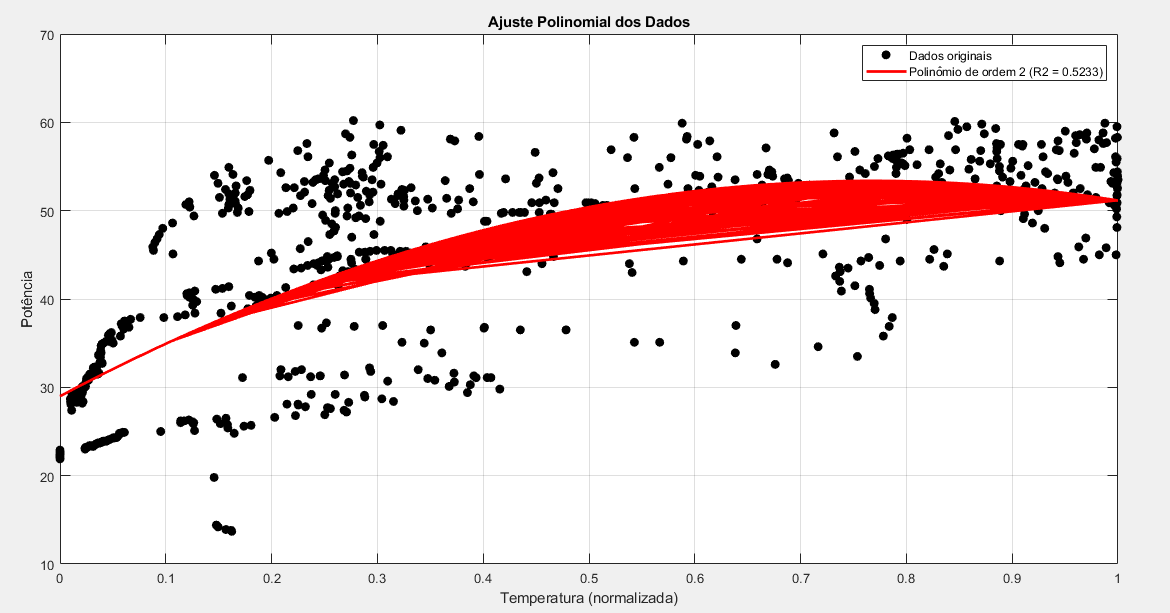
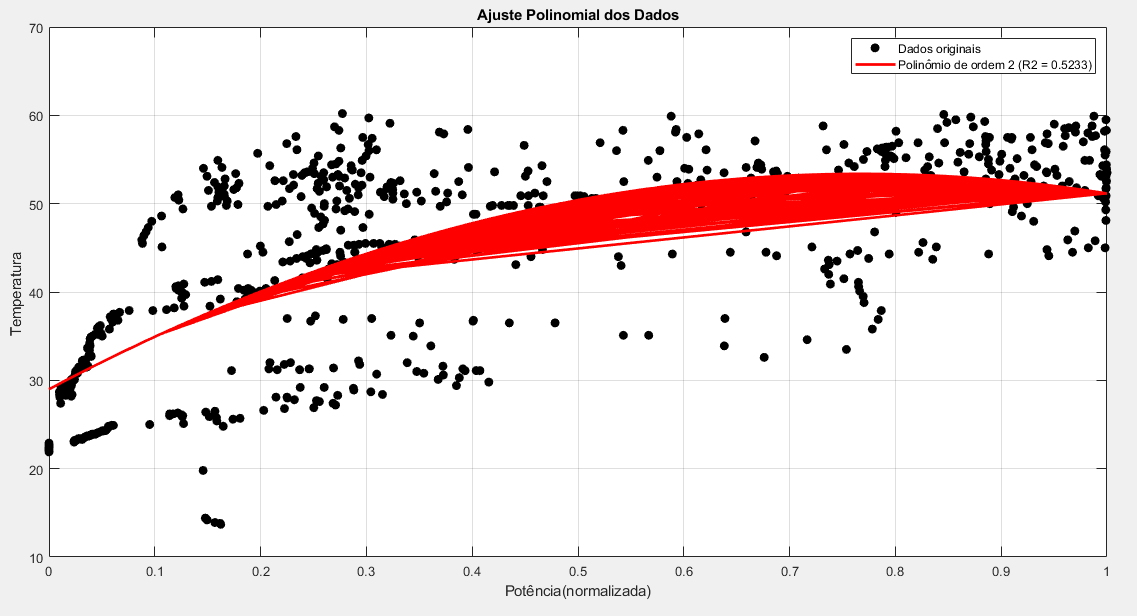
arrumando

diff --git a/Unidade02/Avaliação02_1/potencia_x_temperatura/potencia_x_temperatura_lagrange.m b/Unidade02/Avaliação02_1/potencia_x_temperatura/potencia_x_temperatura_lagrange.m
@@ -35,9 +35,8 @@ y_vals = lagrange_interp(x_vals);
 figure;
 plot(temperature, power, 'o', 'DisplayName', 'Dados Originais');
 hold on;
-plot(x_vals, y_vals, 'r-', 'LineWidth', 2, 'DisplayName', 'Interpolação Polinomial de Lagrange');
-xlabel('Temperatura');
-ylabel('Potência');
+ylabel('Temperatura');
+xlabel('Potência');
 title('Interpolação Polinomial de Lagrange para Potência vs Temperatura');
 legend('show');
 grid on;

diff --git a/Unidade02/Avaliação02_1/potencia_x_temperatura/potencia_x_temperatura_regressao.m b/Unidade02/Avaliação02_1/potencia_x_temperatura/potencia_x_temperatura_regressao.m
@@ -114,8 +114,8 @@ figure;
 plot(x, y, 'ko', 'MarkerFaceColor', 'k', 'DisplayName', 'Dados originais');
 hold on;
 plot(x, y_fit, 'r-', 'LineWidth', 2, 'DisplayName', sprintf('Polinômio de ordem %d (R2 = %.4f)', g, R2));
-xlabel('Temperatura (normalizada)');
-ylabel('Potência');
+ylabel('Temperatura ');
+xlabel('Potência(normalizada)');
 title('Ajuste Polinomial dos Dados');
 legend('show');
 grid on;
